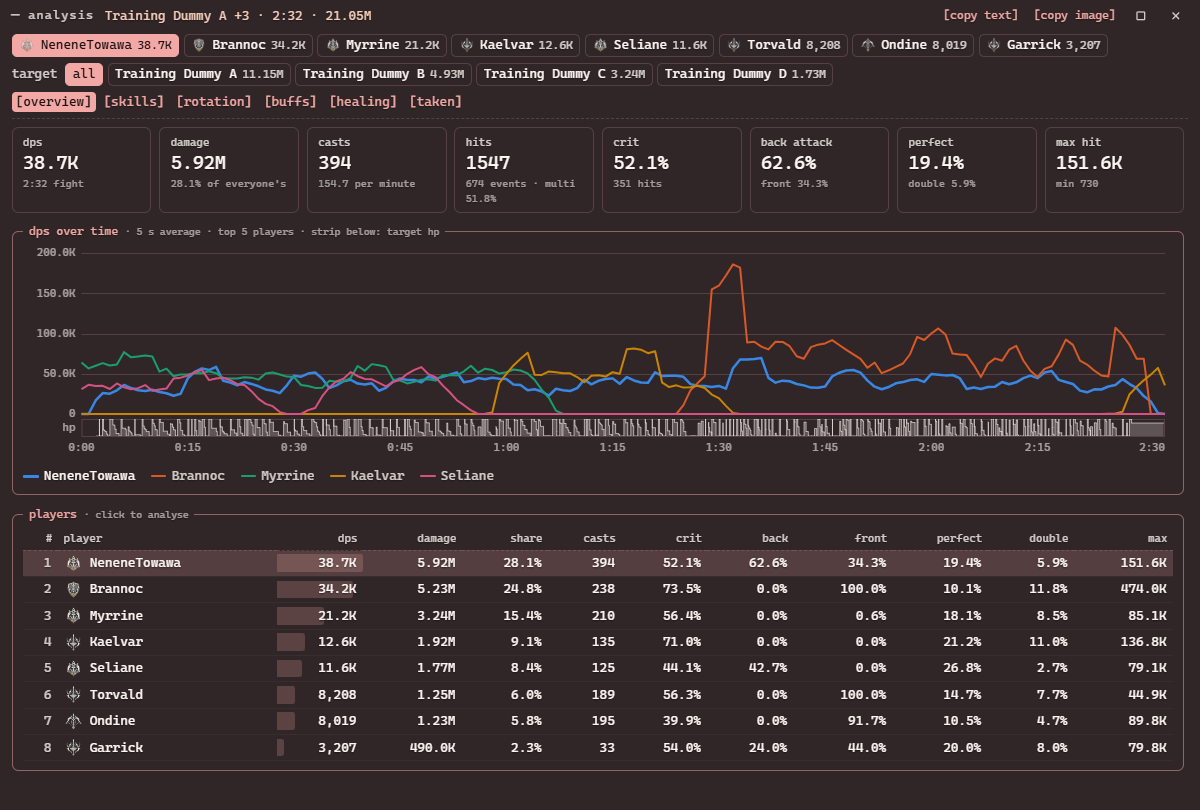
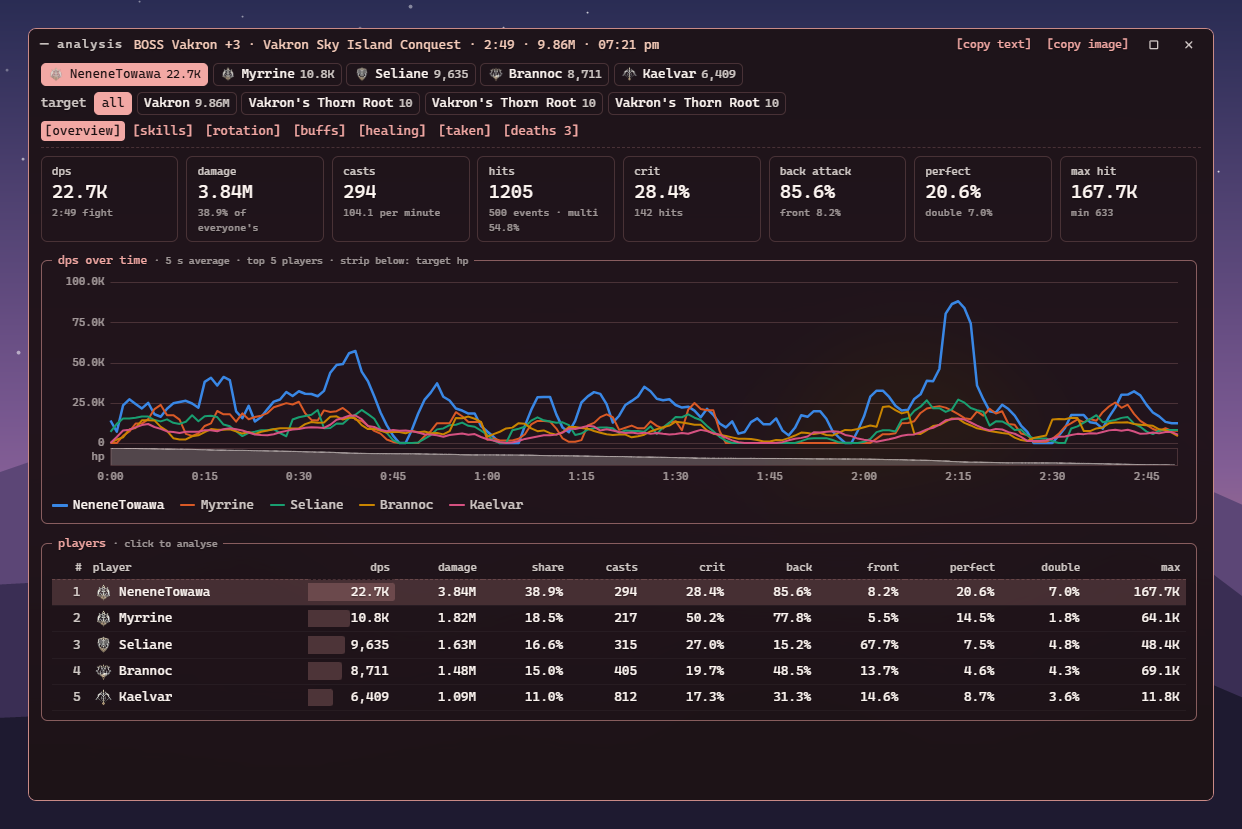
New README screenshots; fix the meter's height fit and new-install defaults
- Screenshots from a replayed Vakron Sky Island run: the meter in a boss fight, the side
  windows, the history window, settings and the analysis tabs including deaths.
- The meter's fit measured a removed element and threw, so it never resized; it now fits
  five rows with room for the boss's HP bar.
- Settings' Default comes from serde, so a fresh install gets each setting's own default.

diff --git a/crates/glass-cannon/ui/app.js b/crates/glass-cannon/ui/app.js
@@ -611,9 +611,11 @@ function heightFor(rows) {
     }),
   );
   part("totals").hidden = false;
+  // Room for the boss's HP line when it's on, so a boss fight's rows still fit.
+  part("boss-bar").hidden = !bossBarRoom();
   part("target").textContent = "x";
   part("total").textContent = "x";
-  for (const id of ["fights", "empty", "status"]) part(id).hidden = true;
+  for (const id of ["empty", "status"]) part(id).hidden = true;
   document.body.append(copy);
   const height = Math.ceil(copy.getBoundingClientRect().height);
   copy.remove();
@@ -648,8 +650,10 @@ function widthFor(text) {
 // on first start, after a layout change or a reset, never to a width you chose).
 let fitFor = null;
 let resetWidth = null; // set by "reset appearance": the width goes back to the default too
+const bossBarRoom = () => !!(lastView && lastView.boss_hp && !minimal());
+
 function fitHeight(a) {
-  const key = `${a.font_size}|${a.font}|${a.info_bar}|${a.minimal}`;
+  const key = `${a.font_size}|${a.font}|${a.info_bar}|${a.minimal}|${bossBarRoom()}`;
   if (key === fitFor) return;
   const exact = fitFor !== null;
   fitFor = key;

diff --git a/crates/glass-cannon/src/store.rs b/crates/glass-cannon/src/store.rs
@@ -35,7 +35,7 @@ fn save<T: Serialize>(path: &Path, value: &T) {
     }
 }
 
-#[derive(Debug, Clone, Default, Serialize, Deserialize)]
+#[derive(Debug, Clone, Serialize, Deserialize)]
 pub struct Settings {
     /// Also save each session's packets to `captures/`.
     #[serde(default)]
@@ -96,6 +96,14 @@ pub const TIMER_REGIONS: [&str; 6] = ["as", "naw", "eu", "la", "kr", "tw"];
 
 fn default_timer_region() -> String {
     "as".into()
+}
+
+/// No settings file: the same as an empty one, so each setting gets its own default (some
+/// are on unless turned off).
+impl Default for Settings {
+    fn default() -> Self {
+        serde_json::from_str("{}").expect("every setting has a default")
+    }
 }
 
 impl Settings {
@@ -863,6 +871,13 @@ mod tests {
         assert!(details.has(3));
         assert_eq!(details.load(DETAILS_LIMIT as u64 + 2), Some(analysis));
         fs::remove_dir_all(dir).ok();
+    }
+
+    #[test]
+    fn a_new_install_gets_the_defaults() {
+        let s = Settings::load(&temp_dir("no-settings"));
+        assert!(s.boss_hp);
+        assert_eq!((s.alert_lead_min, s.timer_region.as_str(), s.hide_after_s), (5, "as", 0));
     }
 
     #[test]

diff --git a/README.md b/README.md
@@ -4,27 +4,31 @@ A frosted-glass DPS meter for **Aion 2** on Windows. It reads the game's network
 passively through Npcap, so it never touches the game or its memory. No admin rights, no
 auto-updates, and it never goes online.
 
-![The meter in a fight with eight players](docs/screenshots/overlay.png)
+![The meter in a boss fight: the boss's HP, deaths and five players](docs/screenshots/overlay.png)
 
 | Skill breakdown | Minimal mode, class-coloured bars |
 | --- | --- |
 | ![A player's skills](docs/screenshots/skills.png) | ![Minimal mode](docs/screenshots/minimal.png) |
 
-![Dungeon runs in the fight history](docs/screenshots/history.png)
+![A boss fight with the target frame, cooldowns, party cooldowns and world timers](docs/screenshots/windows.png)
 
-![Settings beside the meter](docs/screenshots/settings.png)
+| Fight history | Settings |
+| --- | --- |
+| ![A dungeon run in the fight history window](docs/screenshots/history.png) | ![Settings beside the meter](docs/screenshots/settings.png) |
 
 ![Fight analysis: overview](docs/screenshots/analysis-overview.png)
 
-![Skills with each player's specialties, and a skill's tooltip](docs/screenshots/analysis-skills.png)
+![Skills with each player's specialties](docs/screenshots/analysis-skills.png)
 
 | Rotation | Buffs |
 | --- | --- |
 | ![Skill rotation timeline](docs/screenshots/analysis-rotation.png) | ![Buff timeline and buffs per skill](docs/screenshots/analysis-buffs.png) |
 
-![Healing done, by healer, heal and who was healed](docs/screenshots/analysis-healing.png)
+| Healing | Deaths |
+| --- | --- |
+| ![Healing done, by healer, heal and who was healed](docs/screenshots/analysis-healing.png) | ![Deaths, and the hits and heals before one](docs/screenshots/analysis-deaths.png) |
 
-<sub>Real fights replayed from recordings, with other players' names made up. The dungeon runs were recorded by another meter and loaded into the history.</sub>
+<sub>A real dungeon run replayed from a recording, with other players' names made up.</sub>
 
 ## Install
 

diff --git a/docs/releases/v0.7.0.md b/docs/releases/v0.7.0.md
@@ -93,3 +93,7 @@ alerts and field bosses, and a target frame.
 - The copies of party members that bosses such as Tiere and Thamon make no longer show up
   as extra players (a party of five showed as eleven): they're mobs, so their hits on you
   are damage taken.
+- The meter sizes itself to fit five rows again (with room for the boss's HP bar); it had
+  stopped resizing at all.
+- A fresh install starts with every new setting's default (boss hp on, alerts 5 minutes
+  ahead) instead of off.
